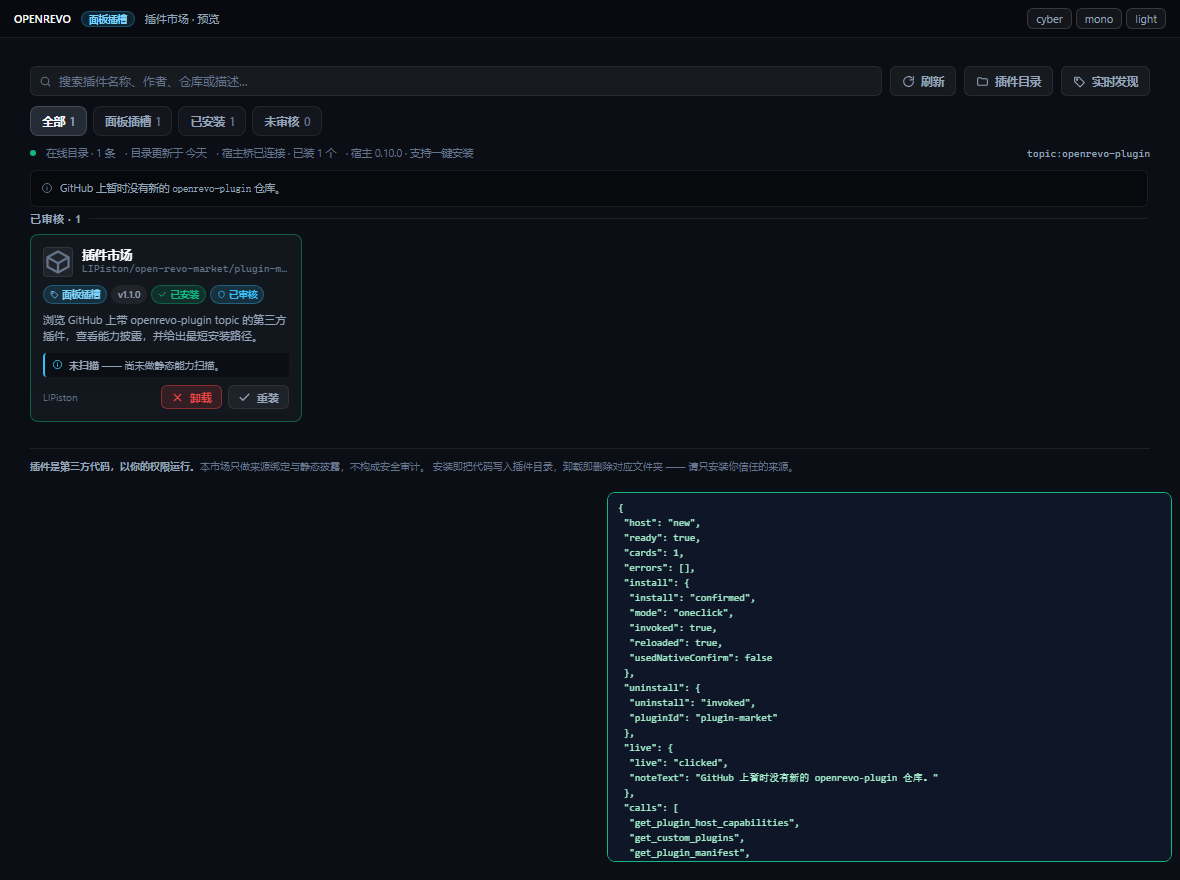
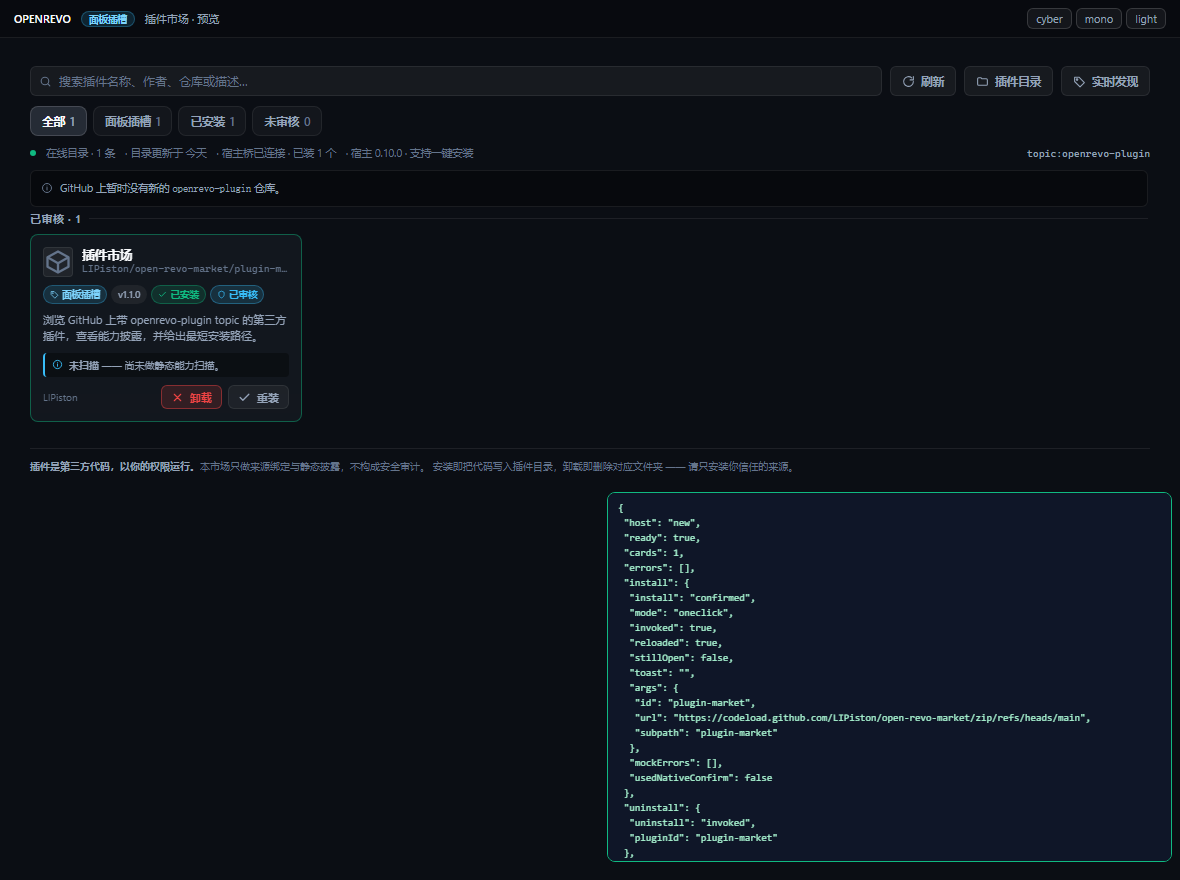
fix(market): 一键安装补传必填参数 id
真机报错 `invalid args id ... missing required key id`。根因是取证时只抄了
exe 里紧跟命令名的那串明文（subpath / sha256），而 id 与 url 被其它命令复用、
已被编译器去重到别处，于是误判成"只有三个字段"。

- market.js: args 改为 { id, url, subpath?, sha256? }，并在发 IPC 前挡非法 id
- market-preview.html: mock 复刻真宿主 serde 规则（缺 id/url、非 https、
  id 含分隔符、subpath 含 .. 一律拒收），拒收原因记入 mockErrors
- market-verify.sh: 新增 stillOpen / mockErrors / args.id 三条判据
- build_market.py: 断言论参对象必含 id 与 url（已反向验证）

Changed region(s): [[0.5186, 0.7364, 0.9153, 0.9818]]

diff --git a/_tools/market-preview.html b/_tools/market-preview.html
@@ -48,6 +48,10 @@ if (!SHOW_DIAG) {
 }
 
 const CALLS = [];
+// 宿主安装器拒绝过的调用（参数不合法）。验收必须把它当成失败 ——
+// 市场自己 catch 了异常只弹 toast，不产生未捕获错误，光看 errors 是发现不了的。
+const MOCK_ERRORS = [];
+const INSTALL_ARGS = [];
 // ?host=old 模拟没有安装接口的老宿主（0.9.1）：get_plugin_host_capabilities 直接 reject。
 // 默认模拟新宿主：能力位齐全、安装/卸载/重载都返回成功。
 const HOST_MODE = params.get('host') || 'new';
@@ -70,7 +74,35 @@ window.__TAURI_INTERNALS__ = {
     if (cmd === 'get_custom_plugins') return INSTALLED;
     if (cmd === 'reload_plugins') return INSTALLED;
     if (cmd === 'open_plugins_dir') return 'opened';
-    if (cmd === 'install_plugin_from_url') return { id: 'mock-installed' };
+    // 复刻真宿主的 serde 校验：install_plugin_from_url 的必需字段是 { id, url }。
+    // 这是被真机打过脸的：早先市场只传了 { url, subpath? }，宿主直接回
+    //   invalid args `id` for command `install_plugin_from_url`: missing required key id
+    // 只传 url 就成功返回，等于把真实故障藏起来 —— mock 必须比真宿主更挑，不能更松。
+    if (cmd === 'install_plugin_from_url') {
+      const a = args || {};
+      INSTALL_ARGS.push(a);
+      const missing = ['id', 'url'].filter((k) => !a[k]);
+      if (missing.length) {
+        MOCK_ERRORS.push('missing required key ' + missing[0]);
+        throw new Error(
+          'invalid args `' + missing[0] + '` for command `install_plugin_from_url`: ' +
+          'command install_plugin_from_url missing required key ' + missing[0]
+        );
+      }
+      if (!/^https:\/\//.test(String(a.url))) {
+        MOCK_ERRORS.push('url not https: ' + String(a.url).slice(0, 40));
+        throw new Error('Security violation: Plugin download URL must strictly use HTTPS');
+      }
+      if (/[\\/]|\.\./.test(String(a.id))) {
+        MOCK_ERRORS.push('bad plugin id: ' + a.id);
+        throw new Error('Security violation: Plugin ID contains illegal characters or path separators');
+      }
+      if (a.subpath && /\.\./.test(String(a.subpath))) {
+        MOCK_ERRORS.push('subpath traversal: ' + a.subpath);
+        throw new Error('Security violation: subpath cannot contain \'..\'');
+      }
+      return { id: a.id, name: a.id, installed: true };
+    }
     if (cmd === 'uninstall_plugin') return true;
     if (cmd === 'get_plugin_manifest') return { id: 'plugin-market', version: '1.1.0' };
     if (cmd === 'write_clipboard' || cmd === 'open_external_url') return true;
@@ -209,10 +241,17 @@ async function exerciseInstall() {
   go.click();
   await new Promise((r) => setTimeout(r, 600));
   const callsSince = CALLS.slice(before).map((c) => c[0]);
+  // 弹窗还在 = installEntry 抛了（市场自己 catch 后只弹 toast）⇒ 必须当失败报出来
+  const stillOpen = !!d.querySelector('.mkt-scrim');
+  const toastEl = d.getElementById('toast');
   return {
     install: 'confirmed', mode,
     invoked: callsSince.includes('install_plugin_from_url'),
     reloaded: callsSince.includes('reload_plugins'),
+    stillOpen,
+    toast: toastEl ? toastEl.textContent.slice(0, 120) : null,
+    args: INSTALL_ARGS.length ? INSTALL_ARGS[INSTALL_ARGS.length - 1] : null,
+    mockErrors: MOCK_ERRORS.slice(),
     // 沙盒里 window.confirm 会被拦并返回 false —— 市场不该依赖它
     usedNativeConfirm: window.__CONFIRMS__.length > 0,
   };
@@ -287,11 +326,16 @@ setTimeout(async () => {
   //   oneclick → 弹确认窗 → 点【立即安装】→ 真发 install_plugin_from_url（并重扫）
   //   legacy   → 弹窗并给出含 plugins 路径的可粘贴命令
   // 两条都不许依赖 window.confirm：沙盒没有 allow-modals，原生确认框会静默返回 false。
+  // oneclick 还要求：宿主没拒参数（mockErrors 空）、弹窗已关闭（installEntry 没抛）、
+  // 且参数里确实带了 id（真机就是缺它失败过一次）。
   const installOk = install && (
     (install.mode === 'oneclick'
       && install.install === 'confirmed'
       && install.invoked
-      && install.usedNativeConfirm === false)
+      && install.usedNativeConfirm === false
+      && install.stillOpen === false
+      && (install.mockErrors || []).length === 0
+      && install.args && install.args.id && install.args.url)
     || (install.mode === 'legacy' && install.install === 'modal-open' && install.hasCmd)
   );
 

diff --git a/plugin-market/index.html b/plugin-market/index.html
@@ -610,7 +610,7 @@ html[data-theme="mono"] .mkt-btn.danger {
  *  4. iframe 是独立文档，宿主 :root 令牌**不继承** → 主题靠读父文档 data-theme 手动镜像。
  *
  * 已核实的 IPC 签名（参数名逐字取自 exe 命令注册表，勿按文档臆改）：
- *   install_plugin_from_url { url, subpath?, sha256? }  // url 必须是 https
+ *   install_plugin_from_url { id, url, subpath?, sha256? }  // id 必需，决定安装目录名
  *   uninstall_plugin        { pluginId }                // 移入回收站
  *   reload_plugins          ()                          // 重扫目录，返回插件列表
  *   get_plugin_manifest     { pluginId }
@@ -1028,16 +1028,27 @@ function canOneClick() {
 }
 
 /** 一键安装：把下载/校验/解压/落盘/热重载全部交给宿主，市场只发一条 IPC。
- *  这是宿主自己实现的安装器（强制 https、可选 sha256、防 Zip Slip、AppData 边界断言）。 */
+ *  这是宿主自己实现的安装器（强制 https、可选 sha256、防 Zip Slip、AppData 边界断言）。
+ *
+ *  参数表逐字取自 exe 命令注册表：{ id, url, subpath?, sha256? }
+ *  **`id` 是必需项**（宿主的 serde 缺它直接报
+ *  `command install_plugin_from_url missing required key id`），它决定安装后的目录名。
+ *  exe 明文里 `id` / `url` 因被其它命令复用而被编译器去重，只有 `subpath` / `sha256`
+ *  紧跟在命令名后面 —— 别只照着那个窗口抄。 */
 async function installEntry(entry) {
   if (!canOneClick()) throw new Error('本版宿主没有开放安装接口');
   if (state.busy) throw new Error('已有安装任务在进行');
+  // id 会成为插件目录名：宿主会拒绝含路径分隔符/上传目录的取值，
+  // 这里先按同一口径挡一次，省得把宿主的报错原样甩给用户。
+  if (!entry.id || /[\\/\u0000]|\.\./.test(entry.id)) {
+    throw new Error(`插件 id 非法，无法安装：${entry.id}`);
+  }
 
   state.busy = entry.id;
   render();
 
   try {
-    const args = { url: archiveUrl(entry) };
+    const args = { id: entry.id, url: archiveUrl(entry) };
     if (entry.subpath) args.subpath = entry.subpath;
     if (entry.sha256) args.sha256 = entry.sha256;
 

diff --git a/market/src/market.js b/market/src/market.js
@@ -15,7 +15,7 @@
  *  4. iframe 是独立文档，宿主 :root 令牌**不继承** → 主题靠读父文档 data-theme 手动镜像。
  *
  * 已核实的 IPC 签名（参数名逐字取自 exe 命令注册表，勿按文档臆改）：
- *   install_plugin_from_url { url, subpath?, sha256? }  // url 必须是 https
+ *   install_plugin_from_url { id, url, subpath?, sha256? }  // id 必需，决定安装目录名
  *   uninstall_plugin        { pluginId }                // 移入回收站
  *   reload_plugins          ()                          // 重扫目录，返回插件列表
  *   get_plugin_manifest     { pluginId }
@@ -445,16 +445,27 @@ function canOneClick() {
 }
 
 /** 一键安装：把下载/校验/解压/落盘/热重载全部交给宿主，市场只发一条 IPC。
- *  这是宿主自己实现的安装器（强制 https、可选 sha256、防 Zip Slip、AppData 边界断言）。 */
+ *  这是宿主自己实现的安装器（强制 https、可选 sha256、防 Zip Slip、AppData 边界断言）。
+ *
+ *  参数表逐字取自 exe 命令注册表：{ id, url, subpath?, sha256? }
+ *  **`id` 是必需项**（宿主的 serde 缺它直接报
+ *  `command install_plugin_from_url missing required key id`），它决定安装后的目录名。
+ *  exe 明文里 `id` / `url` 因被其它命令复用而被编译器去重，只有 `subpath` / `sha256`
+ *  紧跟在命令名后面 —— 别只照着那个窗口抄。 */
 async function installEntry(entry) {
   if (!canOneClick()) throw new Error('本版宿主没有开放安装接口');
   if (state.busy) throw new Error('已有安装任务在进行');
+  // id 会成为插件目录名：宿主会拒绝含路径分隔符/上传目录的取值，
+  // 这里先按同一口径挡一次，省得把宿主的报错原样甩给用户。
+  if (!entry.id || /[\\/\u0000]|\.\./.test(entry.id)) {
+    throw new Error(`插件 id 非法，无法安装：${entry.id}`);
+  }
 
   state.busy = entry.id;
   render();
 
   try {
-    const args = { url: archiveUrl(entry) };
+    const args = { id: entry.id, url: archiveUrl(entry) };
     if (entry.subpath) args.subpath = entry.subpath;
     if (entry.sha256) args.sha256 = entry.sha256;
 

diff --git a/build_market.py b/build_market.py
@@ -129,6 +129,22 @@ def sanity_checks(html: str) -> list[str]:
     if re.search(r"expectedSha256", js_src):
         problems.append("install_plugin_from_url 的参数是 sha256，不是 expectedSha256")
 
+    # install_plugin_from_url 的必需参数是 { id, url } —— 少了 id 宿主会直接拒：
+    #   invalid args `id` ... missing required key id
+    # 这条是真机上踩过的：只看 exe 里紧跟命令名的 subpath/sha256 会误以为只有三个字段，
+    # 因为 id 与 url 被其它命令复用、已被编译器去重到别处。
+    # 参数对象是变量（args）再传进去，所以校验它的构造处，而不是调用处。
+    m = re.search(r"const\s+args\s*=\s*(\{[^}]*\})", js_src)
+    if not m:
+        problems.append("找不到 install_plugin_from_url 的参数对象，无法校验必需字段")
+    else:
+        call_args = m.group(1)
+        for k in ("id", "url"):
+            if not re.search(rf"\b{k}\s*:", call_args):
+                problems.append(f"install_plugin_from_url 必须传 {k}（宿主必需字段）")
+        if "install_plugin_from_url" not in js_src:
+            problems.append("没有调用 install_plugin_from_url")
+
     # 绝不能把「本版宿主没有安装接口」这类判断写死成版本号
     if re.search(r"v?0\.9\.1[^0-9]", js_src):
         problems.append("market.js 里仍硬编码宿主版本号 —— 能力必须运行时探测")

diff --git a/market/README.md b/market/README.md
@@ -46,7 +46,7 @@ python build_market.py --install
 一键安装时市场只发一条 IPC，下载 / 校验 / 解压 / 落盘全在宿主侧：
 
 ```js
-invoke('install_plugin_from_url', { url, subpath?, sha256? })   // url 必须是 https
+invoke('install_plugin_from_url', { id, url, subpath?, sha256? })   // id 与 url 都必需
 ```
 
 宿主自己负责：拒绝非 HTTPS、可选 `sha256` 校验、解压防 Zip Slip、目标必须落在 AppData 边界内。
